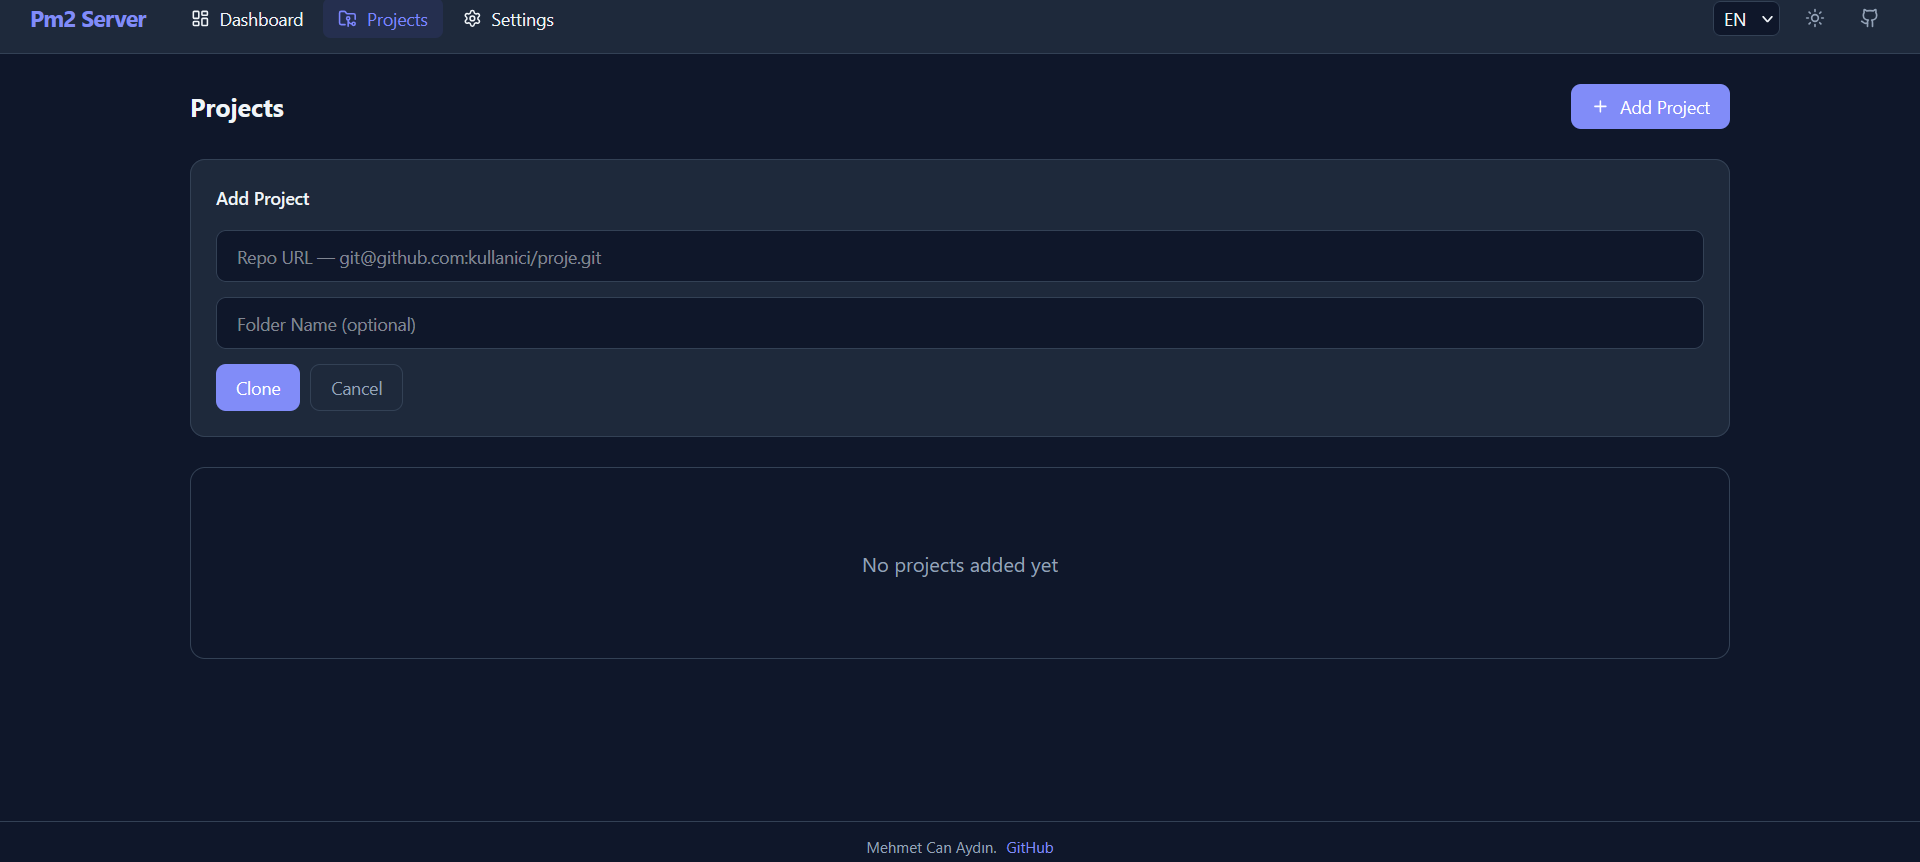
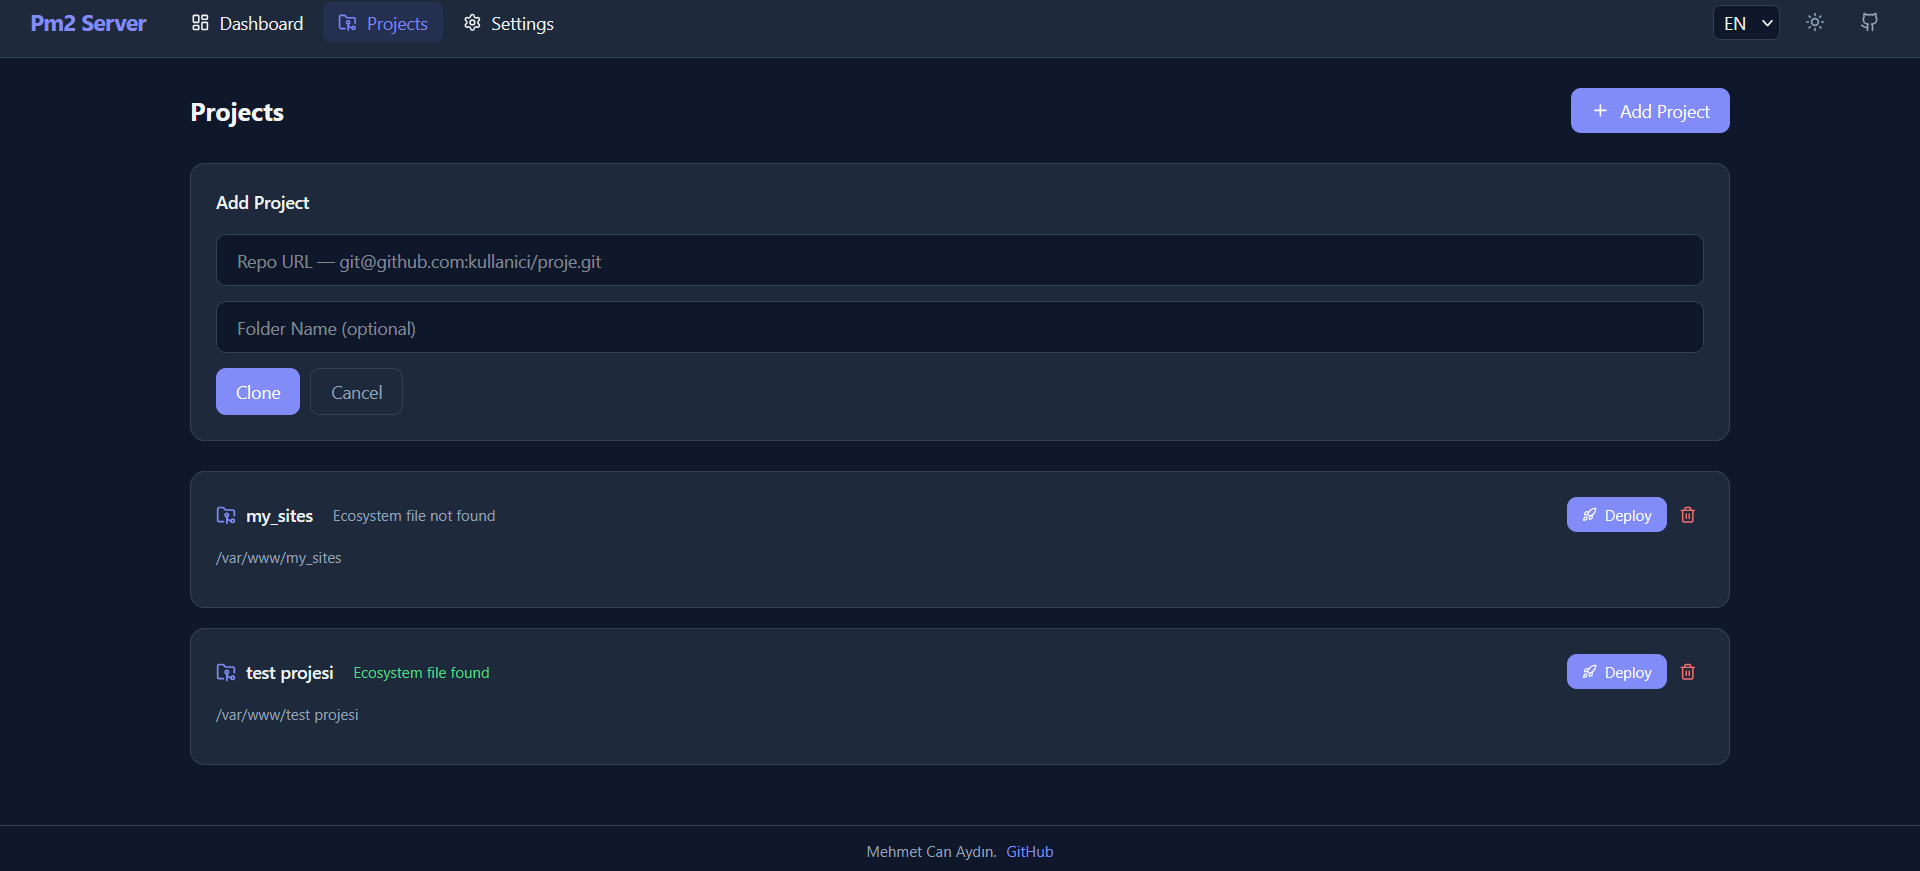
readme updates

diff --git a/docs/UI.md b/docs/UI.md
@@ -36,8 +36,7 @@ The main navigation is accessible from the header and includes:
 
 The login page is the entry point to the dashboard.
 
-<!-- TODO: Add screenshot showing login page with password field and login button -->
-<!-- ![Login Page](docs/images/login-page.png) -->
+![Login Page](../docs/images/login-page.png)
 
 ### Password Behavior
 
@@ -81,8 +80,7 @@ The Dashboard displays live statistics for each process:
 
 Each process is displayed in a card with the following elements:
 
-<!-- TODO: Add screenshot showing a process card with all controls -->
-<!-- ![Process Card Detail](docs/images/process-card-detail.png) -->
+![Process Card Detail](../docs/images/process-card-detail.png)
 
 **Process Name**: Displayed at the top of the card
 
@@ -99,11 +97,11 @@ Each process is displayed in a card with the following elements:
 
 **Control Buttons**:
 
-1. **Start** (▶): Start a stopped process
-2. **Stop** (⏸): Stop a running process
-3. **Restart** (🔄): Restart the process
-4. **Reload** (↻): Gracefully reload (zero-downtime restart)
-5. **Delete** (🗑): Remove process from PM2
+1. **Start** : Start a stopped process
+2. **Stop** : Stop a running process
+3. **Restart** : Restart the process
+4. **Reload** : Gracefully reload (zero-downtime restart)
+5. **Delete** : Remove process from PM2
 
 ### Refresh Rate
 
@@ -121,21 +119,21 @@ When no processes are running, the Dashboard displays a message indicating that 
 
 1. Navigate to Dashboard
 2. Find the stopped process card
-3. Click the **Start** (▶) button
+3. Click the **Start**  button
 4. Process will start and status will change to "online"
 
 ### Stopping a Process
 
 1. Navigate to Dashboard
 2. Find the running process card
-3. Click the **Stop** (⏸) button
+3. Click the **Stop** button
 4. Process will stop and status will change to "stopped"
 
 ### Restarting a Process
 
 1. Navigate to Dashboard
 2. Find the process card
-3. Click the **Restart** (🔄) button
+3. Click the **Restart** button
 4. Process will restart immediately
 5. Status will temporarily change then return to "online"
 
@@ -143,7 +141,7 @@ When no processes are running, the Dashboard displays a message indicating that 
 
 1. Navigate to Dashboard
 2. Find the process card
-3. Click the **Reload** (↻) button
+3. Click the **Reload**  button
 4. Process reloads gracefully with zero downtime
 5. Best for production environments to avoid service interruption
 
@@ -151,7 +149,7 @@ When no processes are running, the Dashboard displays a message indicating that 
 
 1. Navigate to Dashboard
 2. Find the process card
-3. Click the **Delete** (🗑) button
+3. Click the **Delete**  button
 4. Confirm the deletion (if prompted)
 5. Process is removed from PM2 and no longer appears on Dashboard
 
@@ -196,8 +194,7 @@ Example:
 
 ### Project List
 
-<!-- TODO: Add screenshot showing the projects list with multiple projects -->
-<!-- ![Projects List](docs/images/projects-list.png) -->
+![Projects List](../docs/images/projects-list.png)
 
 Each project in the list shows:
 
@@ -277,8 +274,7 @@ The Settings page allows you to configure the dashboard, manage SSH keys, and co
 6. Paste the key and click "Add SSH key"
 7. Return to dashboard and click **Test Connection**
 
-<!-- TODO: Add screenshot showing SSH key generation modal -->
-<!-- ![SSH Key Modal](docs/images/ssh-key-modal.png) -->
+![SSH Key Modal](../docs/images/ssh-key-modal.png) 
 
 #### Viewing the Public Key
 
@@ -303,8 +299,8 @@ The Settings page allows you to configure the dashboard, manage SSH keys, and co
 ✗ Connection failed: Permission denied
 ```
 
-<!-- TODO: Add screenshot showing SSH connection test result -->
-<!-- ![SSH Test Result](docs/images/ssh-test-result.png) -->
+![SSH Test Result](../docs/images/ssh-test-result.png)
+![SSH Test Result](../docs/images/ssh-test-result-2.png)
 
 #### Deleting an SSH Key
 
@@ -342,11 +338,9 @@ Switch between dark and light themes.
    - Light
 3. Theme applies immediately and persists across sessions
 
-<!-- TODO: Add screenshot showing light theme -->
-<!-- ![Light Theme](docs/images/light-theme.png) -->
+![Light Theme](../docs/images/light-theme.png) 
 
-<!-- TODO: Add screenshot showing dark theme -->
-<!-- ![Dark Theme](docs/images/dark-theme.png) -->
+![Dark Theme](../docs/images/dark-theme.png) 
 
 #### Language
 
@@ -387,8 +381,7 @@ Choose between English and Turkish.
 
 The Self-Update feature allows you to update the dashboard to the latest version from Git.
 
-<!-- TODO: Add screenshot showing self-update section with logs -->
-<!-- ![Self-Update](docs/images/self-update.png) -->
+![Self-Update](../docs/images/self-update.png) 
 
 **Update Process**:
 
@@ -477,8 +470,7 @@ On mobile devices (screen width < 768px):
 - Tap outside the sidebar or click the X to close it
 - All navigation links and settings are accessible from the sidebar
 
-<!-- TODO: Add screenshot showing mobile menu open -->
-<!-- ![Mobile Menu](docs/images/mobile-menu.png) -->
+![Mobile Menu](../docs/images/mobile-menu.png) 
 
 ### Mobile Features
 
@@ -577,9 +569,6 @@ Notifications appear for:
 - Color-coded by type (success/error/warning)
 - Stackable for multiple notifications
 
-<!-- TODO: Add screenshot showing toast notifications -->
-<!-- ![Toast Notifications](docs/images/toast-notifications.png) -->
-
 ### Loading States
 
 Loading indicators appear during:
@@ -604,42 +593,8 @@ The dashboard follows accessibility best practices:
 - ARIA labels for screen readers
 - High contrast ratios
 - Focus indicators
-- Alt text for images
 
 ---
-
-## Browser Support
-
-The dashboard supports modern browsers:
-
-- **Chrome/Edge**: Latest 2 versions
-- **Firefox**: Latest 2 versions
-- **Safari**: Latest 2 versions
-- **Mobile Browsers**: iOS Safari, Chrome Mobile
-
-**Note**: Internet Explorer is not supported.
-
----
-
-## Performance
-
-The dashboard is optimized for:
-
-- Fast page loads
-- Efficient WebSocket usage
-- Minimal re-renders
-- Cached responses
-- Lazy loading for images
-
----
-
-## Tips & Tricks
-
-### Quick Actions
-
-- **Keyboard Navigation**: Use Tab to navigate between fields
-- **Refresh**: Press F5 to manually refresh process data
-- **Mobile Menu**: Tap the hamburger icon on mobile devices
 
 ### Efficient Workflow
 
